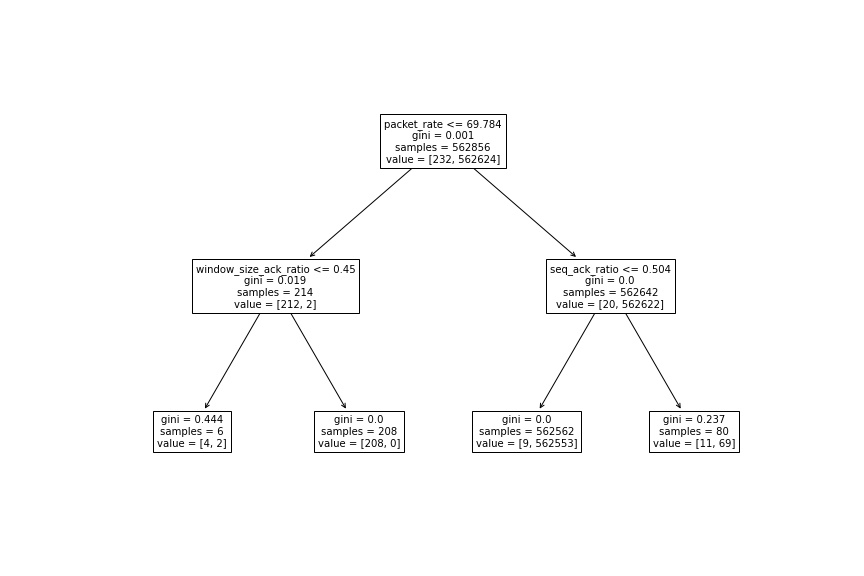
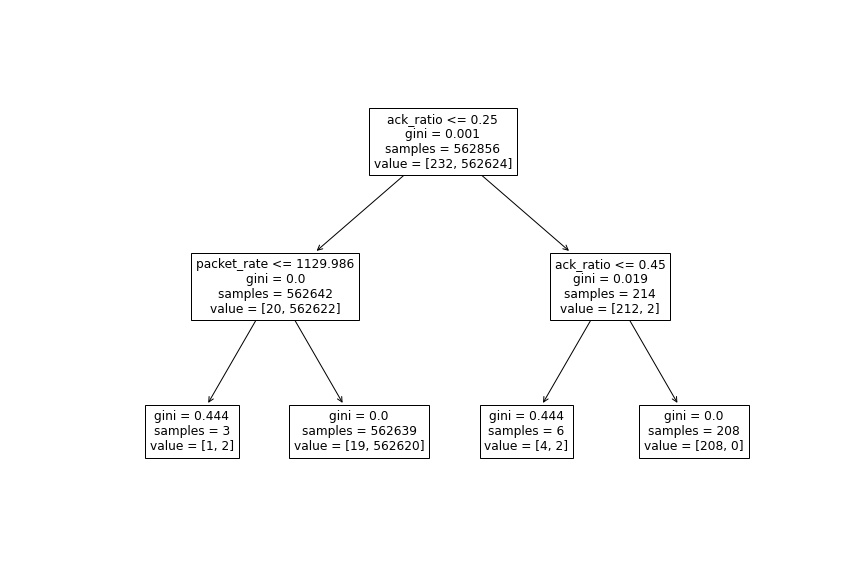
bug fix

diff --git a/training.py b/training.py
@@ -37,9 +37,13 @@ def read_data(file_paths):
                 # print(flags)
                 win = flags['Win']
                 end_len = flags['Len']
-                seq = flags['Seq']
+#                 seq = flags['Seq']
+                if 'Seq' in flags:
+                    seq = 1
+                else:
+                    seq = 0
                 if 'Ack' in flags:
-                    ack = flags['Ack']
+                    ack = 1
                 else:
                     ack = 0
 
@@ -92,31 +96,31 @@ import pandas as pd
 def calculate_attack_features(dataframe, window_size=10):
 #     dataframe = dataframe.sort_values(by='timestamp')
 
-    timestamps = []
-    seq_ack_ratio = []
-    window_size_ack_ratio = []
+    ack_ratio = []
+    ack_seq_ratio = []
     end_length_avg = []
     packet_rate = []
 
     for i in range(len(dataframe) - window_size + 1):
         window = dataframe.iloc[i:i + window_size]
-        timestamps.append(window['timestamp'].max())
 
-        # Feature 1: Sequence to ACK ratio
-        seq_ack_ratio.append(window['seq'].sum() / window['ack'].sum() if window['ack'].sum() != 0 else 0)
 
-        # Feature 2: ACK ratio within the window
-        window_size_ack_ratio.append(window['ack'].sum() / window_size)
+        # Feature 1: ACK ratio within the window
+        ack_ratio.append(window['ack'].sum() / window_size)
+        
+        # Feature 2: Seq ratio
+        ack_seq_ratio.append(window['ack'].sum() / window['seq'].sum())
 
-        # Feature 3: Average end_length
+        # Feature 4: Average end_length
         end_length_avg.append(window['end_length'].mean())
 
-        # Feature 4: Packet rate
+        # Feature 5: Packet rate
         packet_rate.append(len(window) / (window['timestamp'].max() - window['timestamp'].min()))
 
+    # Create a new dataframe with features
     features = pd.DataFrame({
-        'seq_ack_ratio': seq_ack_ratio,
-        'window_size_ack_ratio': window_size_ack_ratio,
+        'ack_ratio': ack_ratio,
+        'ack_seq_ratio': ack_seq_ratio,
         'end_length_avg': end_length_avg,
         'packet_rate': packet_rate
     })
@@ -128,7 +132,7 @@ print(X_features.head())
 
 from sklearn.tree import DecisionTreeClassifier, plot_tree
 import matplotlib.pyplot as plt
-y = y[0:len(X_features)] # NECESSARY BECAUSE OF WINDOW
+y = y[0:len(X_features)]
 X_train, X_test, y_train, y_test = train_test_split(X_features, y, test_size=0.3, random_state=42)
 X.head()
 # Initialize and train the model
